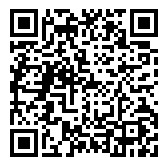
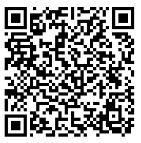
Saving

diff --git a/src/app/modules/command/table/table.component.ts b/src/app/modules/command/table/table.component.ts
@@ -15,8 +15,15 @@ export class TableComponent implements OnInit {
     
   }
 
+  /**Para esta tela, vou precisar obter os dados que hoje eu 
+   * obtenho pelo localStorage, pela requisição, e verificar alguma var q tb vai estar no banco
+   * indicando que a mesa ainda está ativa, isso antes do cara ler o QRCode
+   * quando ele entrar no componente da comanda, ele ja faz a requisição para obter a mesa até o momento,
+   * e passa esse cara como input para esse componente aqui.
+   */
+
   ngOnInit() {
-    console.log('items table: ', this.itemsTable);    
+    // console.log('items table: ', this.itemsTable);    
   }
 
   public get itemsTable(): Array<any> {
@@ -28,7 +35,6 @@ export class TableComponent implements OnInit {
   }
 
   async checkout() {
-    console.log('implementar lógica que faz pagamento');
     const alert = await this.appController.presentAlertConfirm('Efetuar Pagamento', 'Deseja finalizar a mesa e realizar pagamento?');
     if(alert) { // leva o cara pra tela de pagamento
 
@@ -39,10 +45,10 @@ export class TableComponent implements OnInit {
     let total: number = 0;
     if(this.itemsTable) {
       this.itemsTable.forEach(item => {
-        total += (item['qtd'] * item['price']);
+        total += (Number(item['qtd']) * Number(item['price'].replace(",", ".")));
       });
     }
-
+    
     return total;
   }
 

diff --git a/src/app/modules/home/home.component.ts b/src/app/modules/home/home.component.ts
@@ -14,11 +14,12 @@ import { ProductService } from 'src/app/shared/services/product.service';
 export class HomeComponent {
   switchVar: string = 'command';
   qrDataFill: Object = {
-    "id": "3",
-    "name": "Zurca",
-    "lat": "-12.969416",
-    "lng": "-38.436602",
-    "mesa": "25"
+    "id": "2",
+    "name": "Bar Terapia",
+    "lat": "-12.969360",
+    "lng": "-38.436841",
+    "tableNumber": "17",
+    "isActive": false
   };
 
   constructor(public appController: AppController,

diff --git a/src/app/shared/services/getProductsByIdResolver.service.ts b/src/app/shared/services/getProductsByIdResolver.service.ts
@@ -10,7 +10,7 @@ export class GetProductsByIdResolver extends ResolverDefault {
     }
     
     resolver(pParams: any) {
-        return this.productService.getByEstablishmentId(pParams.id_establishment).then(resp => resp);
+        return this.productService.getByEstablishmentId(pParams.id).then(resp => resp);
     }
 
 }
